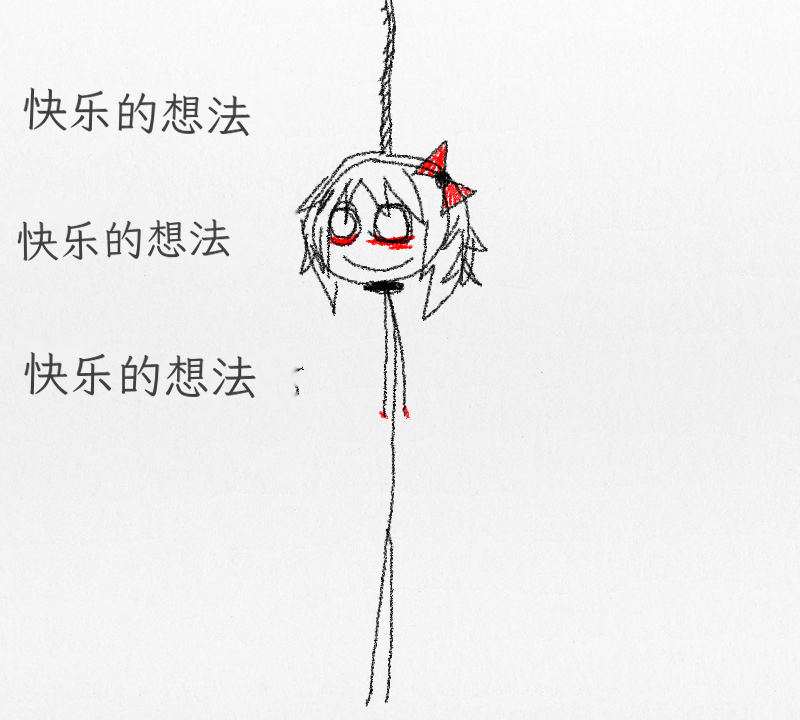
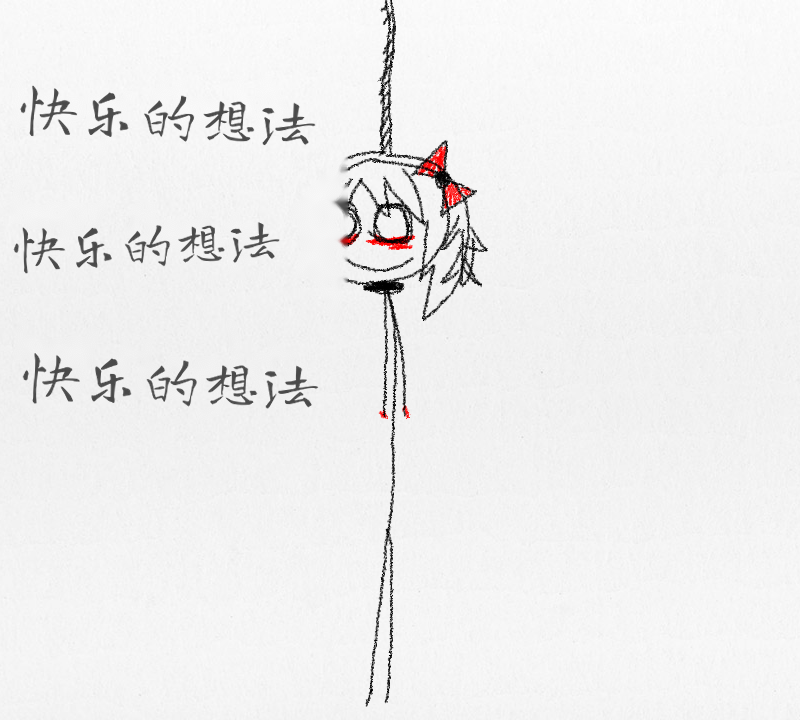
替换图手写情境改用龙藏体；修 special1 残迹、special4 黑条、special9 拖尾线
- 手写情境（special1 手写页、poem_end 莫妮卡的信、poem_end_clearall
  Dan 信、gui/poem_dismiss 提示）字体由霞鹜文楷（偏印刷楷）换为
  龙藏体 Long Cang（OFL 开源钢笔手写体，Google Fonts 收录）：字形
  收放自然、大小错落，真实人手写感明显更强；打字机页保持思源黑体
- special1：第三行手写笔画超出原擦除区域，擦除掩膜加宽后重生成，
  右侧不再有残迹
- special4：涂黑条不再沿用原图像素（原法保留黑条但边缘花、透字），
  改为整行擦除后按原作含义重画涂黑条（覆盖加高加宽，完全遮蔽）
- special9：句尾拖尾横线由连字符字符（悬在字中部）改为按文字基线
  画线，与原版手写拖尾一致
- README 同步字体与工艺说明

diff --git a/README.md b/README.md
@@ -120,12 +120,15 @@ cn_DDLC/
   - `images/poem_special/`：二周目点击课桌纸条显示的特殊诗歌页 11 张与
     三周目结尾信 2 张。消除文字用图像修复而非贴块：先对原文笔画建掩膜，
     以 OpenCV inpaint 从原纸面抹除（纸张纹理、光照渐变、黑条（涂改的
-    称呼）、血迹、简笔画、箭头、点等原样保留，无覆盖边界），再以霞鹜
-    文楷（钢笔/手写风）排入中文；`poem_special9` 末尾字迹散架的故障
-    效果以空格排版模拟；`poem_end` 落款译作「莫妮卡」（与全篇人名
-    译名一致）；`poem_end_clearall` 为照片级手写信，笔迹过淡无法干净
-    修复，改为按原图横线规律程序重建纸面（保留黑边与撕边），落款
-    为现实作者 Dan Salvato，保留原文；
+    称呼）、血迹、简笔画、箭头、点等原样保留，无覆盖边界），再排入
+    中文。手写情境（special1 手写页、莫妮卡的信、Dan 的信、界面提示）
+    用龙藏体（Long Cang，OFL 开源钢笔手写体）体现真实手写感；打字机
+    页用思源黑体排印；special4 的涂黑条按原作含义重绘并涂严实；
+    `poem_special9` 的句尾拖尾横线贴文字基线绘制（模拟笔迹拖长），
+    末尾字迹散架的故障效果以空格排版模拟；`poem_end` 落款译作
+    「莫妮卡」（与全篇人名译名一致）；`poem_end_clearall` 为照片级
+    手写信，笔迹过淡无法干净修复，改为按原图横线规律程序重建纸面
+    （保留黑边与撕边），落款为现实作者 Dan Salvato，保留原文；
   - 刻意保留原图：special2/3（整页涂黑）、special7a/b（马赛克拼贴）等
     纯故障艺术，以及 logo、贴纸、光标等无文字图片。
 - **历史界面运行时文本已覆盖**（`script-exclusives2-natsuki.rpy` 与
